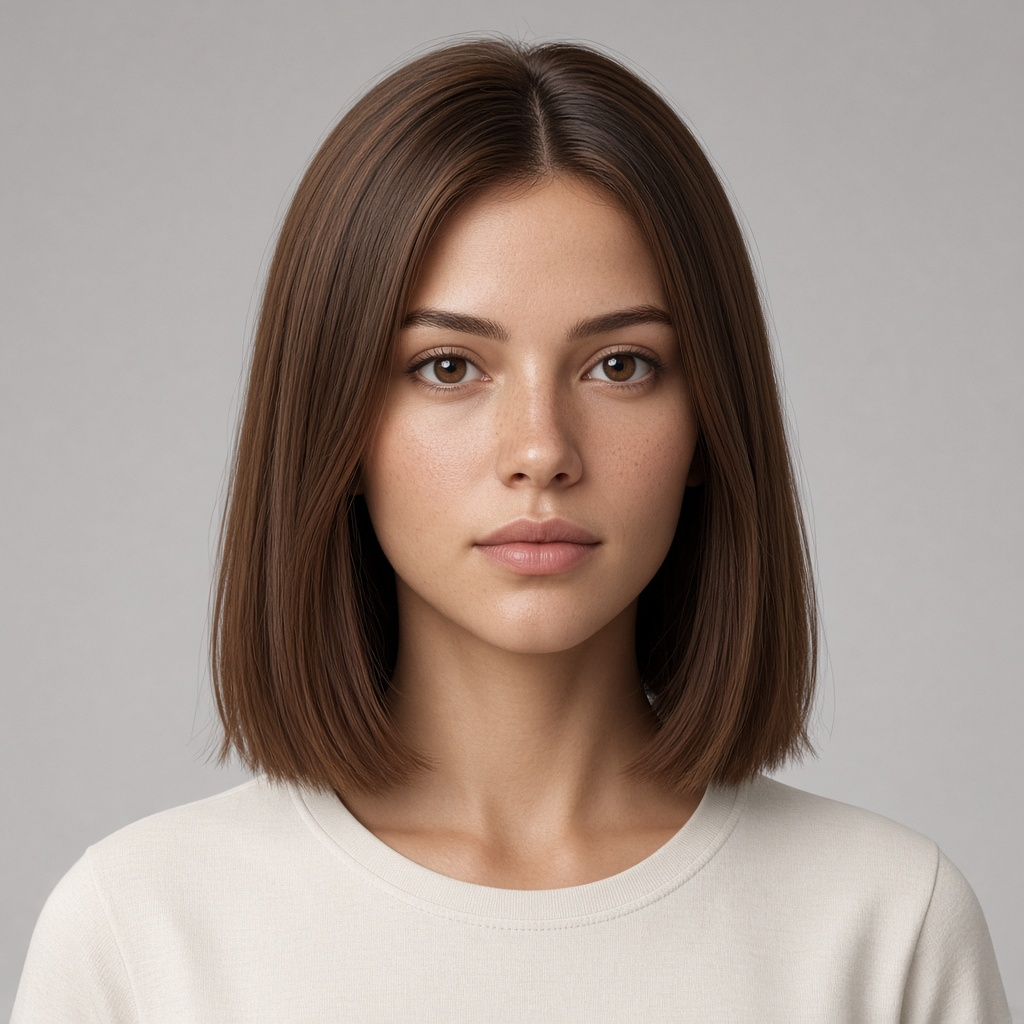
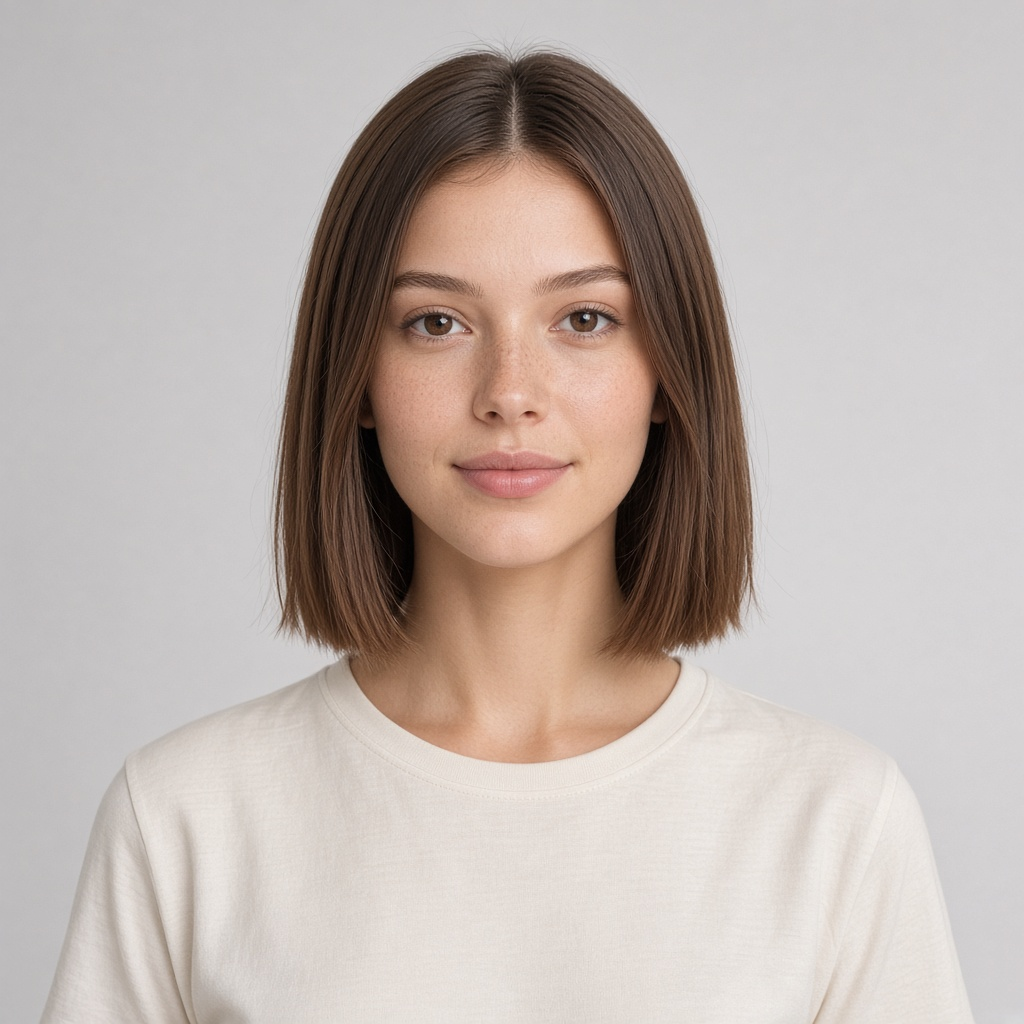
feat: refine Persona B latest face and sheet
Sweeter adult-21 portrait, matching body and angles, and a tighter sheet with locks and color chips.

diff --git a/latest_sheet.py b/latest_sheet.py
@@ -11,27 +11,99 @@ VIEWS = (
     ('face_left_profile.jpg', 'Left profile'),
     ('face_right_profile.jpg', 'Right profile'),
 )
-WIDTH = 1680
-HEIGHT = 1180
-BACKGROUND = (243, 240, 232)
-INK = (36, 48, 40)
-MUTED = (90, 96, 88)
+WIDTH = 1760
+HEIGHT = 1080
+PAPER = (246, 243, 236)
+INK = (28, 43, 36)
+MUTED = (96, 104, 98)
+RULE = (214, 208, 198)
+CARD = (255, 252, 247)
 FONT = '/usr/share/fonts/truetype/dejavu/DejaVuSans.ttf'
 FONT_BOLD = '/usr/share/fonts/truetype/dejavu/DejaVuSans-Bold.ttf'
+SWATCHES = (
+    ('face_front.jpg', (0.54, 0.44), 'Skin'),
+    ('face_front.jpg', (0.30, 0.28), 'Hair'),
+    ('face_front.jpg', (0.38, 0.42), 'Iris'),
+    ('face_front.jpg', (0.50, 0.90), 'Ivory'),
+    ('body_front.jpg', (0.54, 0.70), 'Charcoal'),
+    ('body_front.jpg', (0.47, 0.845), 'Flats'),
+    ('face_front.jpg', (0.08, 0.08), 'Studio'),
+)
+LOCKS = (
+    '21-year-old adult',
+    'Center-part chestnut bob, warm brown eyes, light freckles',
+    'Soft closed mouth, delicate fine-boned face, long neck',
+    'Ivory crew tee, charcoal trousers, dark closed flats',
+    'No jewelry. Light gray studio. Lean graceful figure.',
+)
 
 
 def _font(path, size):
     return ImageFont.truetype(path, size)
 
 
-def _fit(image, box):
+def _sample(image, xy):
+    pixel = image.convert('RGB').getpixel((
+        min(image.width - 1, max(0, int(image.width * xy[0]))),
+        min(image.height - 1, max(0, int(image.height * xy[1]))),
+    ))
+    return pixel
+
+
+def _trim_studio(image):
+    """Crop to the figure. The studio is a gradient, so each row uses its own edge color."""
+    rgb = image.convert('RGB')
+    pixels = rgb.load()
+    width, height = rgb.size
+    min_x, min_y, max_x, max_y = width, height, 0, 0
+    for y in range(0, height, 2):
+        background = tuple((pixels[8, y][channel] + pixels[width - 9, y][channel]) // 2 for channel in range(3))
+        for x in range(0, width, 2):
+            pixel = pixels[x, y]
+            if sum(abs(pixel[channel] - background[channel]) for channel in range(3)) > 40:
+                min_x = min(min_x, x)
+                min_y = min(min_y, y)
+                max_x = max(max_x, x)
+                max_y = max(max_y, y)
+    if max_x <= min_x or max_y <= min_y:
+        return rgb
+    return rgb.crop((
+        max(0, min_x - 28),
+        max(0, min_y - 16),
+        min(width, max_x + 29),
+        min(height, max_y + 20),
+    ))
+
+
+def _contain(image, box, fill):
     fitted = image.convert('RGB')
     fitted.thumbnail(box, Image.Resampling.LANCZOS)
-    canvas = Image.new('RGB', box, (232, 232, 230))
-    left = (box[0] - fitted.width) // 2
-    top = (box[1] - fitted.height) // 2
-    canvas.paste(fitted, (left, top))
+    canvas = Image.new('RGB', box, fill)
+    canvas.paste(fitted, ((box[0] - fitted.width) // 2, (box[1] - fitted.height) // 2))
     return canvas
+
+
+def _cover(image, box):
+    fitted = image.convert('RGB')
+    scale = max(box[0] / fitted.width, box[1] / fitted.height)
+    size = (max(box[0], round(fitted.width * scale)), max(box[1], round(fitted.height * scale)))
+    fitted = fitted.resize(size, Image.Resampling.LANCZOS)
+    left = (fitted.width - box[0]) // 2
+    top = max(0, (fitted.height - box[1]) // 5)
+    if top + box[1] > fitted.height:
+        top = fitted.height - box[1]
+    return fitted.crop((left, top, left + box[0], top + box[1]))
+
+
+def _place(sheet, image, origin):
+    x, y = origin
+    if x < 0 or y < 0 or x + image.width > WIDTH or y + image.height > HEIGHT:
+        raise ValueError('sheet image overflow')
+    sheet.paste(image, origin)
+    ImageDraw.Draw(sheet).rectangle(
+        (x, y, x + image.width - 1, y + image.height - 1),
+        outline=(255, 255, 255),
+    )
 
 
 def render_latest_sheet(folder):
@@ -47,34 +119,63 @@ def render_latest_sheet(folder):
             if image.format not in ('JPEG', 'PNG'):
                 raise ValueError('invalid persona image')
             sources[name] = image.copy()
-    sheet = Image.new('RGB', (WIDTH, HEIGHT), BACKGROUND)
+
+    sheet = Image.new('RGB', (WIDTH, HEIGHT), PAPER)
     draw = ImageDraw.Draw(sheet)
-    title = _font(FONT_BOLD, 34)
-    subtitle = _font(FONT, 18)
-    label_font = _font(FONT, 16)
-    draw.text((40, 32), 'PERSONA B · LATEST', fill=INK, font=title)
-    draw.text((40, 82), 'Adult 21  ·  very attractive, delicate, elegant face  ·  basic ivory tee, charcoal trousers, dark flats', fill=MUTED, font=subtitle)
-    body_box = (500, 860)
-    cell = (340, 400)
-    body = _fit(sources['body_front.jpg'], body_box)
-    sheet.paste(body, (40, 140))
-    draw.text((40, 1012), 'Front body', fill=INK, font=label_font)
-    slots = (
-        ('face_front.jpg', (580, 140)),
-        ('face_left_three_quarter.jpg', (940, 140)),
-        ('face_right_three_quarter.jpg', (1300, 140)),
-        ('face_left_profile.jpg', (580, 600)),
-        ('face_right_profile.jpg', (940, 600)),
+    title = _font(FONT_BOLD, 26)
+    eyebrow = _font(FONT, 12)
+    sub = _font(FONT, 14)
+    label_font = _font(FONT, 12)
+    lock_font = _font(FONT, 14)
+
+    draw.text((28, 24), 'PERSONA B', fill=INK, font=title)
+    status = 'LATEST   ·   NOT LOCKED'
+    draw.text((WIDTH - 28 - draw.textlength(status, font=eyebrow), 32), status, fill=MUTED, font=eyebrow)
+    draw.text((28, 58), 'Cute, sweet, beautiful, gorgeous, stunning, lovely', fill=MUTED, font=sub)
+    draw.text((28, 78), 'Delicate, elegant, refined, graceful, luminous, fine-boned, poised', fill=MUTED, font=sub)
+    draw.line((28, 104, WIDTH - 28, 104), fill=RULE, width=1)
+
+    body_fill = _sample(sources['body_front.jpg'], (0.06, 0.06))
+    trimmed = _trim_studio(sources['body_front.jpg'])
+    body_width = 520
+    body_height = min(900, round(body_width * trimmed.height / trimmed.width))
+    _place(sheet, _contain(trimmed, (body_width, body_height), body_fill), (28, 116))
+    draw.text((28, 116 + body_height + 8), 'FRONT BODY', fill=INK, font=label_font)
+
+    _place(sheet, _cover(sources['face_front.jpg'], (540, 660)), (562, 116))
+    draw.text((562, 784), 'FRONT FACE', fill=INK, font=label_font)
+
+    angle_names = (
+        'face_left_three_quarter.jpg',
+        'face_right_three_quarter.jpg',
+        'face_left_profile.jpg',
+        'face_right_profile.jpg',
     )
-    for name, origin in slots:
-        sheet.paste(_fit(sources[name], cell), origin)
-        label = dict(VIEWS)[name]
-        draw.text((origin[0], origin[1] + cell[1] + 10), label, fill=INK, font=label_font)
-    note = _font(FONT, 16)
-    note_x, note_y = 1300, 620
-    draw.multiline_text((note_x, note_y), 'Working set, not locked.\n\nFace and body: Imagine 2.0.\nAngles: quality-model edits\nof the front face.\n\nOverwrite latest/ and\nrefresh this sheet.', fill=MUTED, font=note, spacing=4)
+    angle = 300
+    for index, name in enumerate(angle_names):
+        column, row = index % 2, index // 2
+        origin = (1116 + column * (angle + 14), 116 + row * (angle + 26))
+        _place(sheet, _cover(sources[name], (angle, angle)), origin)
+        draw.text((origin[0], origin[1] + angle + 6), dict(VIEWS)[name].upper(), fill=INK, font=label_font)
+
+    card = (562, 816, WIDTH - 28, 1048)
+    draw.rectangle(card, fill=CARD, outline=RULE)
+    draw.text((582, 832), 'WORKING LOCKS', fill=INK, font=label_font)
+    for index, line in enumerate(LOCKS):
+        draw.text((582, 856 + index * 22), line, fill=MUTED, font=lock_font)
+
+    chip = 16
+    for index, (name, xy, label) in enumerate(SWATCHES):
+        column, row = index // 4, index % 4
+        cursor = 1180 + column * 260
+        chip_y = 856 + row * 28
+        color = _sample(sources[name], xy)
+        draw.rectangle((cursor, chip_y, cursor + chip, chip_y + chip), fill=color, outline=RULE)
+        draw.text((cursor + chip + 8, chip_y + 1), label, fill=MUTED, font=label_font)
+    note = 'Angles follow the front face. The body matches by description, not as a pixel lock.'
+    draw.text((582, 1012), note, fill=MUTED, font=eyebrow)
     buffer = io.BytesIO()
-    sheet.save(buffer, format='JPEG', quality=90, optimize=True)
+    sheet.save(buffer, format='JPEG', quality=92, optimize=True)
     return buffer.getvalue()
 
 
